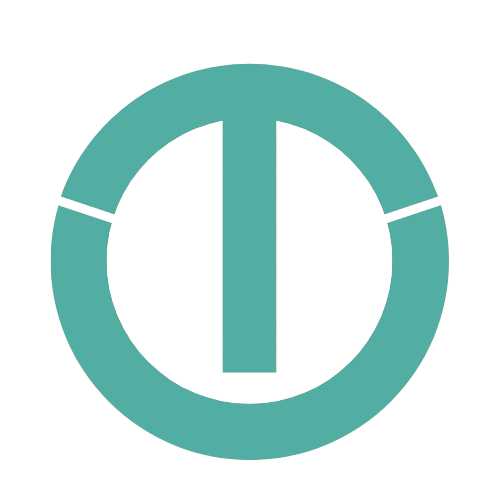
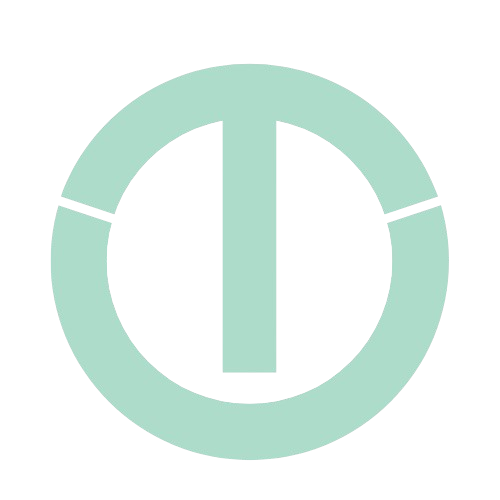
fixes

Changed region(s): [[0.09, 0.12, 0.9, 0.93]]

diff --git a/tailwind.config.js b/tailwind.config.js
@@ -4,7 +4,7 @@ export default {
   theme: {
     extend: {
       colors: {
-        "dark-blue": "#52ada2",
+        "dark-blue": "#addcca",
         "light-blue": "#addcca",
         "light-gray": "#f7f8f3",
         "light-green": "#aade87",
